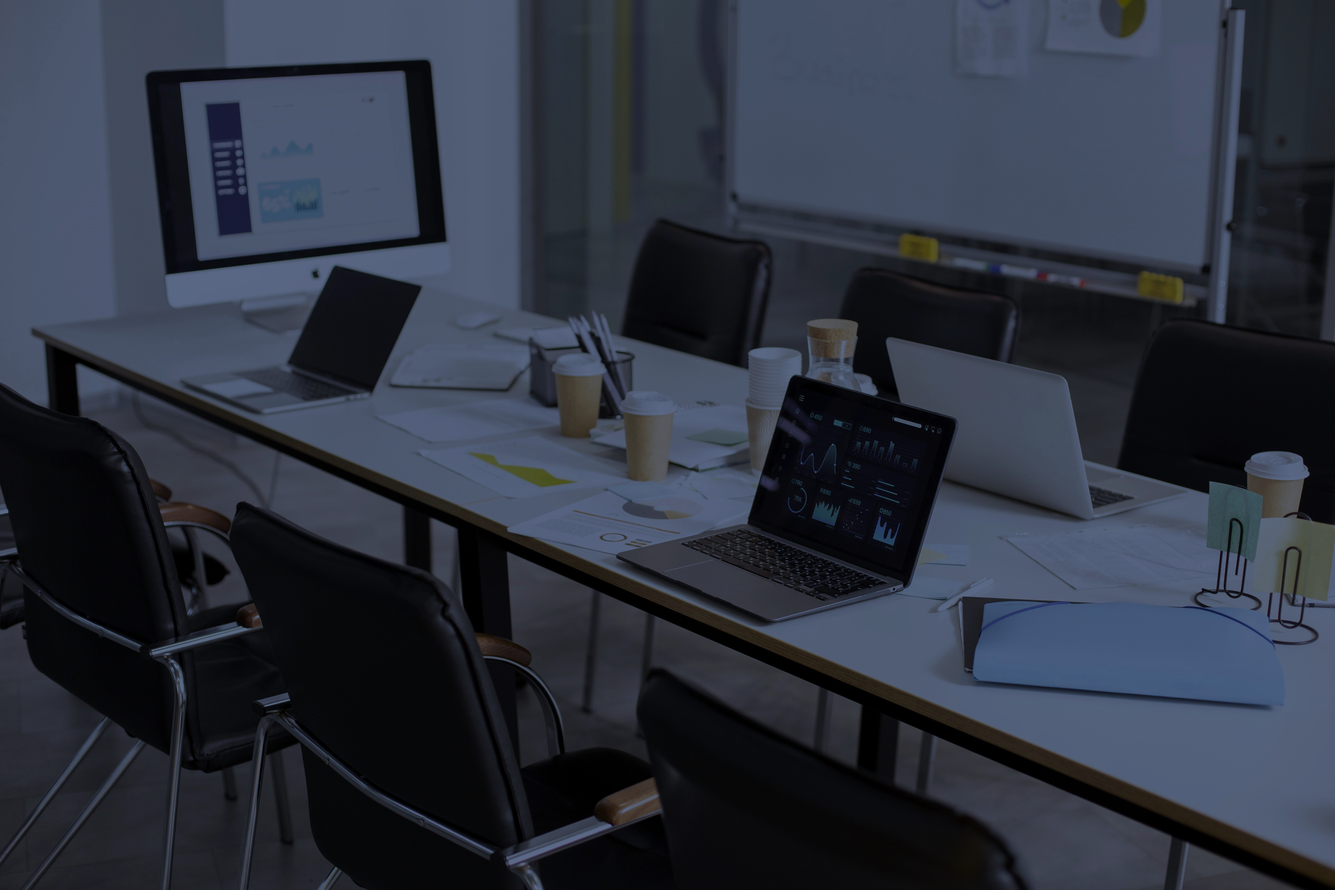
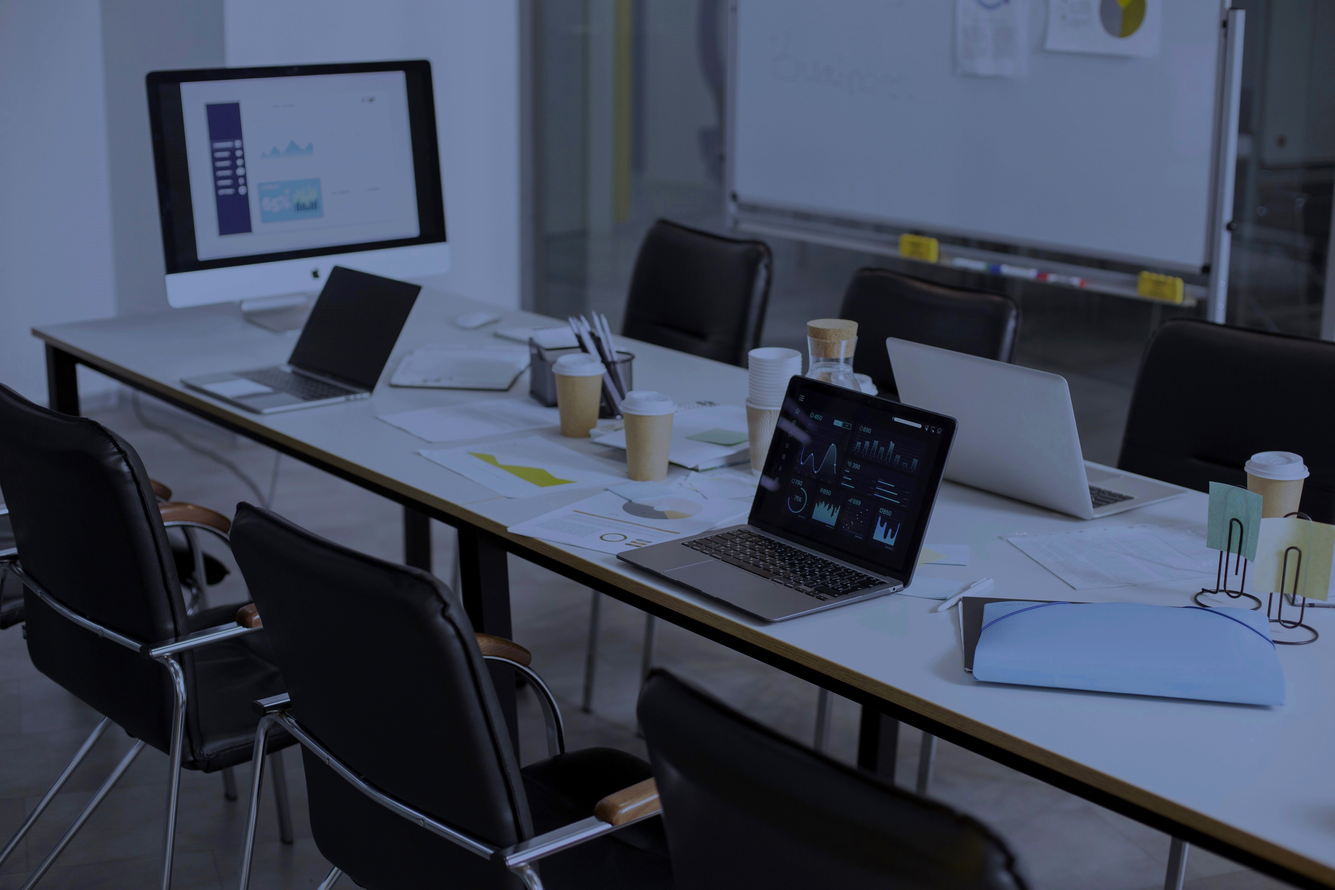
21 night commit

diff --git a/index.html b/index.html
@@ -98,11 +98,11 @@
     <section class="about reveal" id="about">
         <div class="container-lg">
             <div class="row align-items-center">
-                <div class="col-lg-5 col-md-6 text-center">
+                <!-- <div class="col-lg-5 col-md-6 text-center">
                     <img src="image/Untitled81_20240818224828.png" class="w-75 d-block mx-auto">
-                </div>
+                </div> -->
                 <div class="col-lg-7 col-md-6" id="about-content">
-                    <h3>About <span style="color: #1cbef4;">Me</span></h3>
+                    <h3>About <span style="color: #2ad8ff;">Me</span></h3>
                     <label>Hello, I'm HP. Nice to meet you. </label>
                     <p>I am a dedicated beginner developer with a passion for creating software that addresses real-world challenges. In my free time, I enjoy working on personal coding projects, continually honing my skills. My experience ranges from developing simple landing pages to designing progressive web applications. If you have an opportunity that aligns with my skills and experience, I'd love to connect.</p>
                     <a href="daniel.pdf" class="btn" id="hire">CV Form</a>
@@ -260,7 +260,7 @@
     <section id="services" class="reveal">
         <div class="position-relative">
             <div id="img-background">
-                <img src="image/modern-equipped-computer-lab2.jpg" class="w-100 d-block" alt="">
+                <img src="image/modern-equipped-computer-lab2.jpg" class="d-block" alt="">
                 <span></span>
             </div>
             <div id="service-content">
@@ -268,7 +268,7 @@
                     <h2>My <span style="color: #2ad8ff;">Services</span></h2>
                     <div class="container-lg">
                         <div class="row">
-                            <div class="col-lg-6 dev-service">
+                            <div class="col-lg-6 col-md-6 dev-service">
                                 <div>
                                     <div class="d-flex align-items-center mb-3">
                                         <i class="fa-solid fa-code mb-1 fs-5"></i>
@@ -277,7 +277,7 @@
                                     <p>I build custom websites and web applications designed specifically for your needs. Using a range of programming languages and frameworks, I create websites that are fast, secure, and adaptable to any device. Whether you’re looking for a straightforward site or a complex web application, I can turn your ideas into reality.</p>
                                 </div>
                             </div>
-                            <div class="col-lg-6 responsive-service">
+                            <div class="col-lg-6 col-md-6 responsive-service">
                                 <div>
                                     <div class="d-flex align-items-center mb-3">
                                         <i class="fa-solid fa-pen-ruler fs-5"></i>
@@ -303,13 +303,18 @@
     </section>
 
     <!-- portfolio  -->
-    <section id="portfolio" class="reveal">
-        <h2>Some Of <span style="color: #1cbef4;">My Work</span></h2>
-    </section>
+    <!-- <section id="portfolio" class="reveal">
+        <h2>Some of <span style="color: #2ad8ff;">The Projects</span></h2>
+        <div id="portfolio-content">
+            <div>
+                <img src="image/social.png" class="mx-auto d-block" alt="">
+            </div>
+        </div>
+    </section> -->
 
     <!-- contact  -->
     <section id="contact" class="reveal">
-        <h2>Contact <span style="color: #1cbef4;">Me</span></h2>
+        <h2>Contact <span style="color: #2ad8ff;">Me</span></h2>
         <div class="container-lg mt-5">
             <div class="row">
                 <div class="col-lg-6 col-sm-6 ps-5">

diff --git a/style.css b/style.css
@@ -1,5 +1,5 @@
 :root{
-    --nav-bar : #1d5a7d;
+    --nav-bar : #226286;
     --body : #022F40;
     --tint: #49cdee;    
     --header: #2ad8ff;
@@ -7,7 +7,7 @@
     --bg: #104966d2;
 }
 body{
-    background-image: linear-gradient(to right top, #183e56, #25556e, #1f5974, #124b62, #0f4f66);
+    background-image: linear-gradient(to right top, #183e56, #2b607d, #1f5974, #1a5f7a, #1d6883);
     color: white;
     transition: 0.8s;
 }
@@ -408,8 +408,9 @@ body::-webkit-scrollbar-thumb{
 #services > div,
 #img-background > img{
     position: relative;
+    display: block;
     width: 100%;
-    height: 730px;
+    height: 120vh;
     object-fit: cover;
 }
 #img-background > span{
@@ -417,8 +418,8 @@ body::-webkit-scrollbar-thumb{
     top: 0;
     display: block;
     width: 100%;
-    height: 730px;
-    background-color: #1b374580;
+    height: 100%;
+    background-color: #1b374594;
 }
 #service-content{
     position: absolute;
@@ -435,26 +436,61 @@ body::-webkit-scrollbar-thumb{
     font-weight: bold;
 }
 .dev-service{
-    border-right: 3px solid var(--tint);
-    border-bottom: 3px solid var(--tint);
+    border-right: 1px solid var(--tint);
+    border-bottom: 1px solid var(--tint);
     padding-top: 20px;
     padding-bottom: 20px;
 }
 .responsive-service{
     padding-left: 40px;
-    border-bottom: 3px solid var(--tint);
+    border-bottom: 1px solid var(--tint);
     padding-top: 20px;
     padding-bottom: 20px;
 }
 .experience-service{
-    padding: 50px 10px;
-    border-bottom: 3px solid var(--tint);
+    padding: 40px 10px;
+    border-bottom: 1px solid var(--tint);
 }
 .dev-service p,
 .responsive-service p,
 .experience-service p{
     font-family: calibri;
     font-size: 14pt;
+}
+@media screen and (max-width: 992px){
+    #service-content .row{
+        padding: 0 30px;
+    }
+}
+@media screen and (max-width: 768px){
+    #services > div,
+    #img-background > img{
+        height: 140vh;
+    }
+    .dev-service{
+        border-right: none;
+    }
+    .responsive-service{
+        padding-left: 10px;
+    }
+    .experience-service{
+        padding: 20px 10px;
+    }
+}
+@media screen and (min-width: 470px) and (max-width: 603px){
+    #services > div,
+    #img-background > img{
+        height: 160vh;
+    }
+}
+@media screen and (max-width: 469px){
+    #service-content .row{
+        padding: 0 20px;
+    }
+    #services > div,
+    #img-background > img{
+        height: 190vh;
+    }
 }
 /*................... services end .................  */
 
@@ -465,9 +501,17 @@ body::-webkit-scrollbar-thumb{
     margin-bottom: 100px;
 }
 #portfolio > h2{
-    text-align: center;
     font-size: 28pt;
-    margin-bottom: 50px;
+    margin: 0 30px 50px;
+    padding-left: 60px;
+    padding-bottom: 20px;
+    border-bottom: 1px solid var(--header);
+}
+/* #portfolio-content > div{
+    background-color: var(--bg);
+} */
+#portfolio-content > div > img{
+    width: 85%;
 }
 /*................... portfolio end.................  */
 
@@ -497,8 +541,8 @@ body::-webkit-scrollbar-thumb{
     padding-top: 13px;
     padding-bottom: 13px;
     margin-bottom: 16px;
-    background-color: #3f7494;
-    border: 1px solid #27648f;
+    background-color: var(--bg);
+    border: 1px solid var(--bg);
 }
 .form-control::placeholder{
     color: rgba(255, 255, 255, 0.784);
@@ -506,7 +550,7 @@ body::-webkit-scrollbar-thumb{
 }
 .form-control:focus{
     box-shadow: none;
-    background-color: #27648f;
+    background-color: var(--bg);
     border: 1px solid var(--header);
     color: white;
 }
